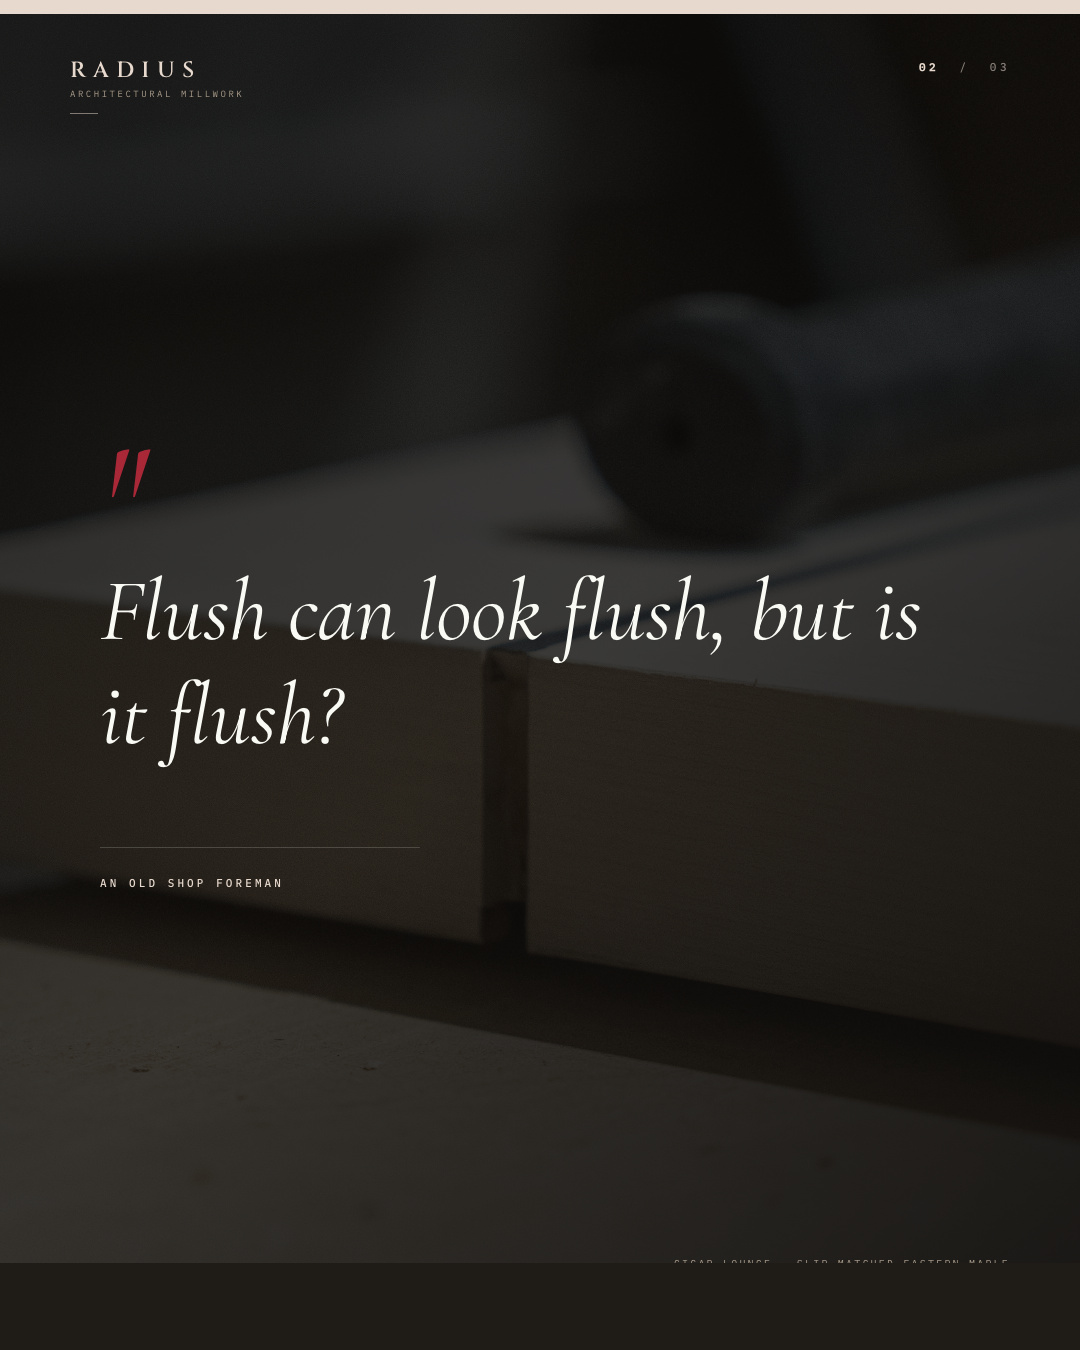
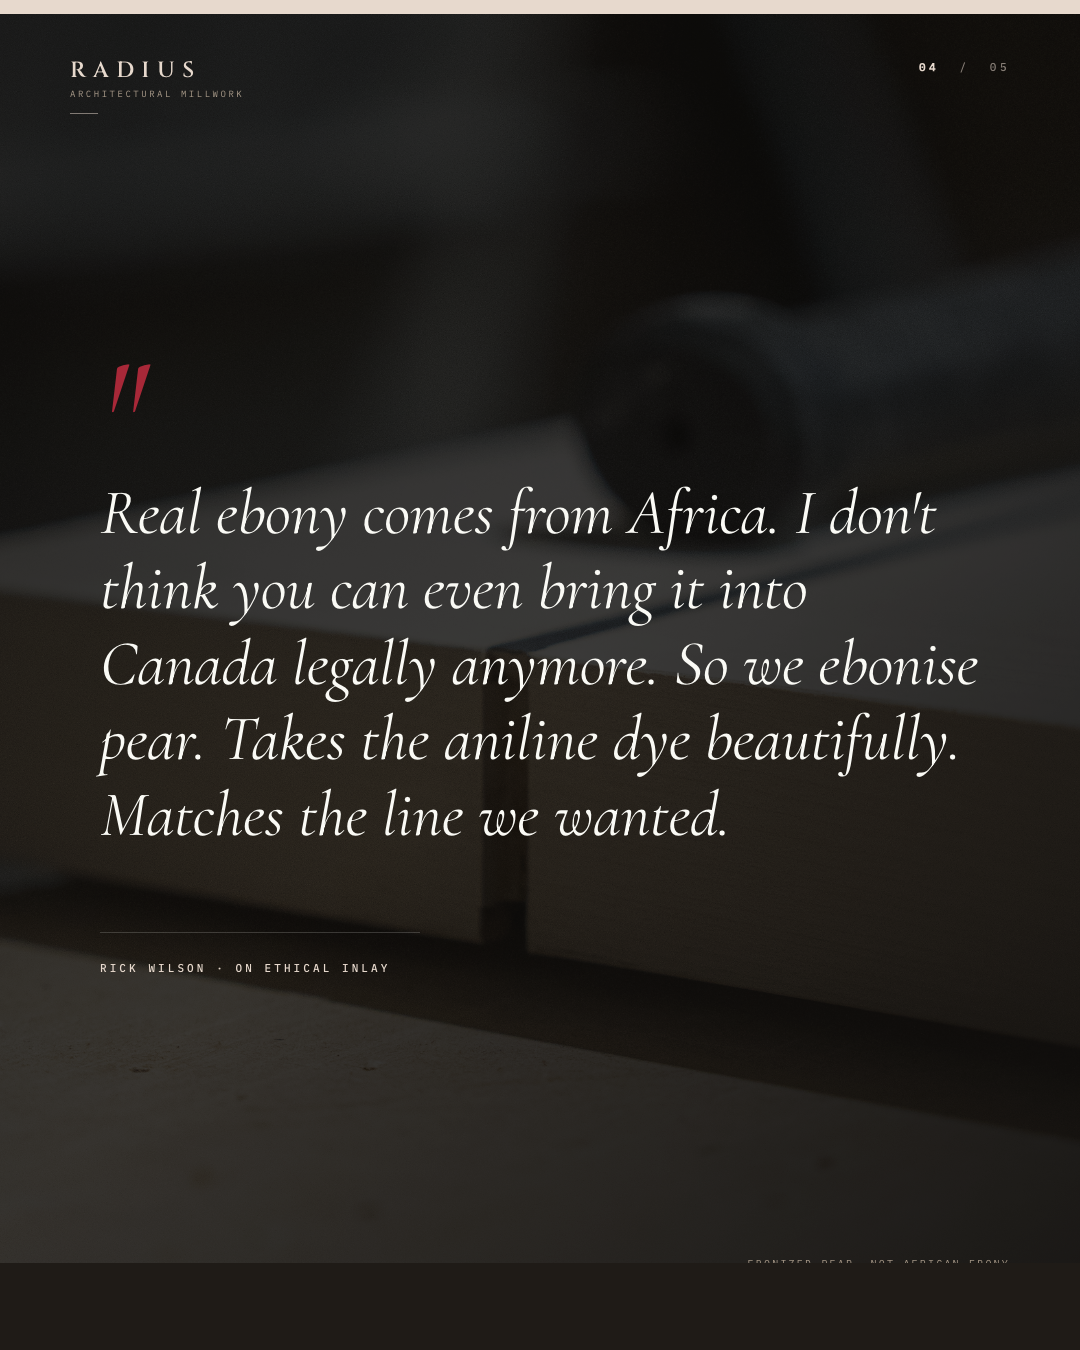
Post 4 rewrite: cigar-room coffee table (Rick's actual audio)
Was: 'Forty feet · that's the distance from which a wonky reveal reads'
  — abstract reveal-talk I wrote that wasn't in the audio.

Now: 'The only thing the eye stops on' — the cigar-room coffee table,
  verbatim from Rick's May 5 interview. Slip-matched Eastern maple,
  ebonized pear inlay (NOT African ebony, ethics + legality), glass
  spacers becoming back-cut glass insets, 500 sq ft cigar room with
  slip-matched maple wall panelling wrapping the table.

Carousel grew 3 → 5 slides:
- p4_s1_cover (NEW): 'The only thing the eye stops on.'
- Photo: reveal-panel-assembly-dry-fit.jpg (full table on bench)
- Photo: ebonised-reveal-line-corner.jpg (the inlay corner detail)
- p4_s2_quote (REWRITTEN): Rick on ethical pear-not-ebony
- p4_s3_material (UPDATED): 'Cigar-room coffee table' + glass top spec

This is now genuine Rick content with all the right specifics.
The ebonised-reveal joinery folder (6 photos) is finally pointed
at the right post — those are all photos of THIS table.

Changed region(s): [[0.0917, 0.3422, 0.8861, 0.6222], [0.5194, 0.5911, 0.6722, 0.6222], [0.0917, 0.2489, 0.1528, 0.3111]]

diff --git a/radiuswood/posts/index.html b/radiuswood/posts/index.html
@@ -291,34 +291,39 @@ Rick Wilson, Owner + Master Joiner. Photography by @mattanthonyphoto</div>
     </div>
     <div class="post-meta">
       <span class="badge platform">Instagram</span>
-      <span class="badge type">Carousel · 3 slides</span>
+      <span class="badge type">Carousel · 5 slides</span>
       <span class="badge pillar">The Craft</span>
     </div>
-    <h3>Forty feet.</h3>
+    <h3>The only thing <em>the eye stops on.</em></h3>
 
     <div class="carousel-wrap">
-      <div class="carousel-label">Carousel sequence</div>
+      <div class="carousel-label">Carousel sequence — the cigar-room coffee table, from Rick's audio interview</div>
       <div class="carousel">
-        <div class="slide-wrap"><span class="slide-num">01</span><img src="photos/process/reveal-panel-dry-fit-vertical.jpg" alt="7470"></div>
-        <div class="slide-wrap"><span class="slide-num">02</span><span class="slide-tag">Quote</span><img class="designed" src="slides/p4_s2_quote.png" alt="quote"></div>
-        <div class="slide-wrap"><span class="slide-num">03</span><span class="slide-tag">Spec</span><img class="designed" src="slides/p4_s3_material.png" alt="material spec"></div>
+        <div class="slide-wrap"><span class="slide-num">01</span><span class="slide-tag">Cover</span><img class="designed" src="slides/p4_s1_cover.png" alt="cover"></div>
+        <div class="slide-wrap horizontal"><span class="slide-num">02</span><span class="slide-tag">Dry-fit</span><img src="photos/process/reveal-panel-assembly-dry-fit.jpg" alt="table dry fit"></div>
+        <div class="slide-wrap"><span class="slide-num">03</span><span class="slide-tag">Detail</span><img src="photos/joinery/ebonised-reveal-line-corner.jpg" alt="ebonised reveal corner"></div>
+        <div class="slide-wrap"><span class="slide-num">04</span><span class="slide-tag">Quote</span><img class="designed" src="slides/p4_s2_quote.png" alt="quote"></div>
+        <div class="slide-wrap"><span class="slide-num">05</span><span class="slide-tag">Spec</span><img class="designed" src="slides/p4_s3_material.png" alt="material spec"></div>
       </div>
     </div>
 
     <div class="post-grid">
       <div>
-        <div class="caption-label">Caption</div>
-        <div class="caption">Forty feet.
+        <div class="caption-label">Caption (Rick first-person · from audio)</div>
+        <div class="caption">Coffee table. Centerpiece of a cigar room.
 
-That's the distance from which a wonky reveal reads. Your eye picks it up. You can't say what's wrong. Something just doesn't fit. When the reveal is right, you don't see it. You see the room.
+Slip-matched Eastern maple. Ebonized inlay running through the panel face — pear wood with an aniline dye, not African ebony. Real ebony's questionable on ethics, and I don't think you can even bring it into Canada legally anymore. So we ebonise pear instead. Takes the dye beautifully. Matches the line we wanted.
 
-Slip-matched Eastern maple. Ebonized pear-wood inlay running through the panel face. Pear, not ebony. Real ebony comes from Africa, and we don't use it.
+Those spacers you see in the mock-up get replaced with glass. Back-cut to the shape, sits down into the field, glass top over the whole thing. Five hundred square feet of slip-matched maple panelling wrapping the room around it.
 
-Photography @mattanthonyphoto</div>
+This table is the only thing the eye stops on.
+
+Rick Wilson, Owner + Master Joiner. Photography @mattanthonyphoto</div>
+        <div class="voice-check"><strong>Source:</strong> Rick's May 5 audio interview, verbatim on ebony ethics + pear-wood substitute + the room being 500 sq ft + the table as centerpiece. Replaces the prior "forty feet / wonky reveal" abstraction that wasn't from Rick.</div>
       </div>
       <div>
         <div class="caption-label">Hashtags</div>
-        <div class="hashtags">#detailmatters #slipmatched #ebonized #vancouverinteriordesign #vancouverarchitect #millworkshop #customcabinetry #luxuryhomes #thecraft #thefinishedroom</div>
+        <div class="hashtags">#slipmatched #ebonized #ethicalmaterials #vancouverinteriordesign #vancouverarchitect #residentialarchitecture #customcabinetry #luxuryhomes #cigarroom #thecraft</div>
       </div>
     </div>
   </article>